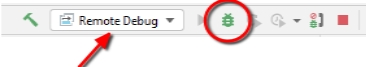
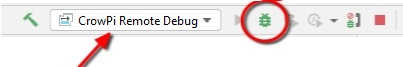
feat: update docs and screens for new run configs

Changed region(s): [[0.0301, 0.0, 0.9617, 0.6866], [0.1803, 0.4776, 0.3306, 1.0]]

diff --git a/content/german/setup/intellij.md b/content/german/setup/intellij.md
@@ -58,46 +58,55 @@ fehlt nur noch die Startkonfiguration des Projekts welche in der nächsten Sekti
 ---
 
 ### 3. Einstellung der Run Konfiguration
-Das Projekt CrowPi der FHNW benutzt 3 Run Konfigurationen. In diesen ist definiert welche Teile des Codes auf welche Art und Weise 
-ausgeführt werden. Es besteht jedoch kein Grund zur Sorge, denn der grösste Teil davon ist bereits vordefiniert und es ist nur noch die IP-Adresse des Raspberry Pi einzutragen. 
-Verwendet werden die Konfigurationen: 
-- crowpi-examples [install]
-- crowpi-examples [debug]
-- Remote Debug 
+Das Projekt CrowPi der FHNW benutzt vier Run Konfigurationen. In diesen ist definiert welche Teile des Codes auf welche Art und Weise 
+ausgeführt werden. Es besteht jedoch kein Grund zur Sorge, denn der grösste Teil davon ist bereits vordefiniert und es ist nur noch die
+IP-Adresse des Raspberry Pi einzutragen. Verwendet werden die Konfigurationen: 
+- `CrowPi Run`
+- `CrowPi Run (Demo Mode)`
+- `CrowPi Debug`
+- `CrowPi Remote Debug`
 
-Dabei kopiert `crowpi-examples [install]` den aktuellen Code auf den Raspberry Pi. Dies funktioniert über eine Kombination aus `SSH/SCP`.
-Anschliessend wird der kopierte Code auf dem Raspberry Pi gestartet. `crowpi-examples [debug]` macht im Prinzip nichts anderes. Jedoch 
-werden andere Optionen bei der Verbindung ausgewählt und vor der eigentlichen Ausführung der Applikation wird auf eine Verbindung von einem Debugger gewartet. `Remote Debug` 
-stellt genau diesen Debugger zur Verfügung. Dieser verbindet sich mit dem Raspberry Pi und die Fehlersuche kann beginnen. Näheres wie 
-dies findet man hier: [Starten und Debuggen auf dem CrowPi](TODO)
+Dabei kopiert `CrowPi Run` den aktuellen Code auf den Raspberry Pi. Dies funktioniert über eine Kombination aus `SSH/SCP`. Anschliessend
+wird der kopierte Code auf dem Raspberry Pi gestartet. `CrowPi Debug` macht im Prinzip nichts anderes. Jedoch werden andere Optionen bei
+der Verbindung ausgewählt und vor der eigentlichen Ausführung der Applikation wird auf eine Verbindung von einem Debugger gewartet.
+`CrowPi Remote Debug` stellt genau diesen Debugger zur Verfügung. Dieser verbindet sich mit dem Raspberry Pi und die Fehlersuche kann beginnen.
+Näheres wie dies findet man hier: [Starten und Debuggen auf dem CrowPi]({{< ref "basics/debugging" >}})
+
+Zusätzlich existiert auch noch eine Konfiguration `CrowPi Run (Demo Mode)`, welche genau gleich wie `CrowPi Run` funktioniert und zusätzlich
+den Parameter `--demo` übergibt. Dies bewirkt, dass der Launcher sich nach Ausführung einer Applikation nicht mehr selber beendet sondern
+mehrere Beispiele nacheinander ausgeführt werden können. Wie der Name schon sagt, ist dies besonders für Demozwecke praktisch.
 
 Damit dies alles reibungslos funktioniert muss nun aber zunächst wie erwähnt die IP-Adresse des Raspberry Pi eingestellt werden. Dazu 
 hier klicken und `Edit Configurations` wählen. Die IP-Adresse des Raspberry Pi wird, wie zuvor erklärt, auf dem Hintergrundbild des 
 CrowPi angezeigt.
 {{< img alt="Konfigurationsmenu auswählen" src="setup/intellij-select-configuration.JPG" height="500px" >}}
 
-Nun öffnet sich der Dialog zum Einstellen der Konfigurationen. EIn kleiner Hinweis: Überall wo die IP-Adresse des Raspberry Pi hingehört 
+Nun öffnet sich der Dialog zum Einstellen der Konfigurationen. Ein kleiner Hinweis: Überall wo die IP-Adresse des Raspberry Pi hingehört 
 steht bereits als Platzhalter `Add CrowPi IP here`. 
-{{< img alt="Die drei Konfigurationen" src="setup/intellj-three-configs.JPG" height="500px" >}}
+{{< img alt="Die vier Konfigurationen" src="setup/intellij-run-configs.png" height="500px" >}}
 
-Als Erstes wird `crowpi-examples [debug]` konfiguriert. Dazu wie auf dem Bild den Tab `Runner` öffnen und dann auf `Add CrowPi IP here` 
+Als Erstes wird `CrowPi Run` konfiguriert. Dazu wie auf dem Bild den Tab `Runner` öffnen und dann auf `Add CrowPi IP here` 
 doppelklicken. Danach öffnet sich das Dialogfenster für das Eintippen der IP-Adresse. Kurz mit `OK` bestätigen und mit `Apply` speichern. 
-{{< img alt="Einstellungen Debug" src="setup/intellij-setup-debugconfig.JPG" height="500px" >}}
+{{< img alt="Einstellungen für CrowPi Run" src="setup/intellij-setup-runconfig.png" height="500px" >}}
 
-Als Zweites folgt die `crowpi-examples [install]` Konfiguration. Diese funktioniert genau gleich wie eben die `crowpi-examples [debug]` 
+Als Zweites folgt die `CrowPi Debug` Konfiguration. Diese funktioniert genau gleich wie eben die `CrowPi Run` 
 Konfiguration. Genau die gleiche Einstellung ist nötig. Wiederum mit `Apply` speichern.
-{{< img alt="Einstellungen Install" src="setup/intellij-setup-runconfig.JPG" height="500px" >}}
+{{< img alt="Einstellungen für CrowPi Debug" src="setup/intellij-setup-debugconfig.png" height="500px" >}}
 
-Nun folgt auch schon die letzte Konfiguration `Remote Debug`. Hier stellt sich das Menü etwas anders dar. Jedoch ist es noch einfacher 
+Als Drittes kann optional auch `CrowPi Run (Demo Mode)` konfiguriert werden. Dies funktioniert ebenfalls gleich wie `CrowPi Run`, da auch
+hier die gleiche Einstellung nötig ist. Die andere Option mit `--demo` darf hier nicht angefasst werden. Wiederum mit `Apply` speichern.
+{{< img alt="Einstellungen für CrowPi Run (Demo Mode)" src="setup/intellij-setup-democonfig.png" height="500px" >}}
+
+Nun folgt auch schon die letzte Konfiguration `CrowPi Remote Debug`. Hier stellt sich das Menü etwas anders dar. Jedoch ist es noch einfacher 
 zu bedienen als die vorherigen. Kurz im Feld `Host` die IP-Adresse des Raspberry Pi eintragen. Mit `OK` beenden wird die Einstellung 
 beendet.
-{{< img alt="Einstellungen Remote Debug" src="setup/intellij-remotedebug-config.JPG" height="500px" >}}
+{{< img alt="Einstellungen für CrowPi Remote Debug" src="setup/intellij-setup-remotedebug.png" height="500px" >}}
 
 ---
 
 ### 4. Erster Testlauf
 Schon ist es geschafft. Alles ist eingerichtet, um ein erstes Mal das CrowPi Projekt direkt aus der Entwicklungsumgebung zu starten. 
-Dazu die Run Konfiguration `crowpi-examples [install]` auswählen. Danach durch Drücken von dem grünen Play Button die Applikation starten.
+Dazu die Run Konfiguration `CrowPi Run` auswählen. Danach durch Drücken von dem grünen Play Button die Applikation starten.
 {{< img alt="Start der Applikation" src="setup/intellij-start-firstapplication.JPG" height="500px" >}}
 
 Es öffnet sich sofort das `Run Fenster` von IntelliJ. Es dauert einen Moment und einiges an Text wird auf der Kommandozeile ausgegeben. 

diff --git a/content/german/basics/debugging.md b/content/german/basics/debugging.md
@@ -10,22 +10,22 @@ Schritt für Schritt erklärt, wie man den Debugger starten und verwenden kann.
 
 ### Applikation mit Debugger starten
 
-Zum Starten der Applikation mit Debugger werden die beiden Run Konfigurationen `crowpi-examples [debug]` und `Remote Debug` benötigt.
+Zum Starten der Applikation mit Debugger werden die beiden Run Konfigurationen `CrowPi Debug` und `CrowPi Remote Debug` benötigt.
 Diese sind nach dem Setup bereits korrekt eingestellt und können verwendet werden. Wichtig dabei ist die Reihenfolge, mit der die
 Konfigurationen gestartet werden. Dieses Vorgehen ist:
 
-1. Start von `crowpi-examples [debug]` **ohne** Verwendung vom Debug-Knopf
+1. Start von `CrowPi Debug` **ohne** Verwendung vom Debug-Knopf
 2. Warten bis die Konsolenausgabe meldet `Listening for transport dt_socket at address: 5005 (Attach debugger)`
-3. Starten von `Remote Debug`
+3. Starten von `CrowPi Remote Debug`
 
 Nachfolgend wird der Ablauf mit entsprechenden Abbildungen ergänzt. Als Erstes wird die Applikation im Debugmodus gestartet. Dazu muss die
-Konfiguration `crowpi-examples [debug]` angewählt werden. Gestartet wird die Konfiguration mit dem **Play Button**.
+Konfiguration `CrowPi Debug` angewählt werden. Gestartet wird die Konfiguration mit dem **Play Button**.
 {{< img alt="Debugmodus wählen und starten" src="basics/intellij-select-and-start-debug.JPG" >}}
 
 Als Zweites wird nun gewartet, bis die korrekte Ausgabe im Konsolenfenster erscheint:
 {{< img alt="App wartet auf Debugger" src="basics/intellij-waiting-for-debugger.JPG" height="500px" >}}
 
-Zum Starten des Remote Debugger die entsprechende Run Konfiguration `Remote Debug` auswählen und mit einem
+Zum Starten des Remote Debugger die entsprechende Run Konfiguration `CrowPi Remote Debug` auswählen und mit einem
 Klick auf das Käfer-Icon (Debug) starten. Das Debugfenster meldet nun, ob eine Verbindung hergestellt wurde.
 {{< img alt="Remote Debug starten" src="basics/intellij-start-remote-debug.JPG" >}}
 {{< img alt="Remote Debug verbunden" src="basics/intellij-debug-connected.JPG" >}}
@@ -58,9 +58,9 @@ platzieren. So kann die Ausgangslage gut analysiert werden.
 Wie vorgängig erklärt, wird zuerst der Breakpoint platziert, die Applikation im Debugmodus gestartet und der
 Debugger angehängt. Es werden also diese 3 Schritte durchgeführt:
 
-1. Start von `crowpi-examples [debug]` **ohne** Verwendung vom Debug-Knopf
+1. Start von `CrowPi Debug` **ohne** Verwendung vom Debug-Knopf
 2. Warten bis die Konsolenausgabe meldet `Listening for transport dt_socket at address: 5005 (Attach debugger)`
-3. Starten von `Remote Debug`
+3. Starten von `CrowPi Remote Debug`
 
 Da ein Fehler im 7-Segment Beispiel gesucht werden soll, wird das entsprechende Beispielprogramm nach Programmstart angewählt. Die Applikation
 läuft sofort, bis der Debugger am Breakpoint die Ausführung der Anwendung unterbricht.

diff --git a/content/german/basics/running.md b/content/german/basics/running.md
@@ -10,7 +10,7 @@ in einem separaten Kapitel zu finden.
 
 ## Starten des Application Framework
 Grundsätzlich wurde ein erster Start bereits zum Test am Ende des Setups ausgeführt. Benötigt wurden folgende 3 Schritte:
-1. Anwählen der Run Config `crowpi-examples [install]`
+1. Anwählen der Run Config `CrowPi Run`
 2. Starten mit Run Button
 3. Wählen der Applikation auf der Kommandozeile (falls keine Argumente verwendet werden)
 
@@ -36,12 +36,11 @@ Bei jedem Start werden also sogar die Unit tests ausgeführt. So kann eine optim
 
 ## Start mit Argument
 Der Start mit einem Argument soll es ermöglichen direkt eine der Applikationen auszuwählen, ohne die Nummer in der Kommandozeile eintippen 
-zu müssen. Dazu muss die `Run Konfiguration` angepasst werden. Dies funktioniert sowohl für `crowpi-examples [install]` als auch für 
-`crowpi-examples [debug]` genau gleich. 
+zu müssen. Dazu muss die `Run Konfiguration` angepasst werden. Dies funktioniert sowohl für `CrowPi Run` als auch für `CrowPi Debug` genau gleich. 
 - Das Kontextmenü bei der Run Konfiguration `Edit Configurations ...` öffnen.
 - Nun bei der gewünschten Konfiguration den Tab `Runner` öffnen und mit dem `+` ein neues Argument hinzufügen. Gewählt werden muss das `crowpi.
 laucher.args` und als Wert wird der exakte Name einer Applikation wie zum Beispiel `BuzzerApp` eingetragen.
 - Normales Starten der Applikation mit dem Play Button
-{{< img alt="Start mit Argument" src="basics/intellij-runconfig-args.JPG" height="500px" >}}
+{{< img alt="Start mit Argument" src="basics/intellij-runconfig-args.png" height="500px" >}}
 
 Jetzt startet der übliche Ablauf. Anstelle der Auswahl einer ExampleApp wird jedoch direkt die angegebene Applikation gestartet, also in diesem Fall die BuzzerApp.
